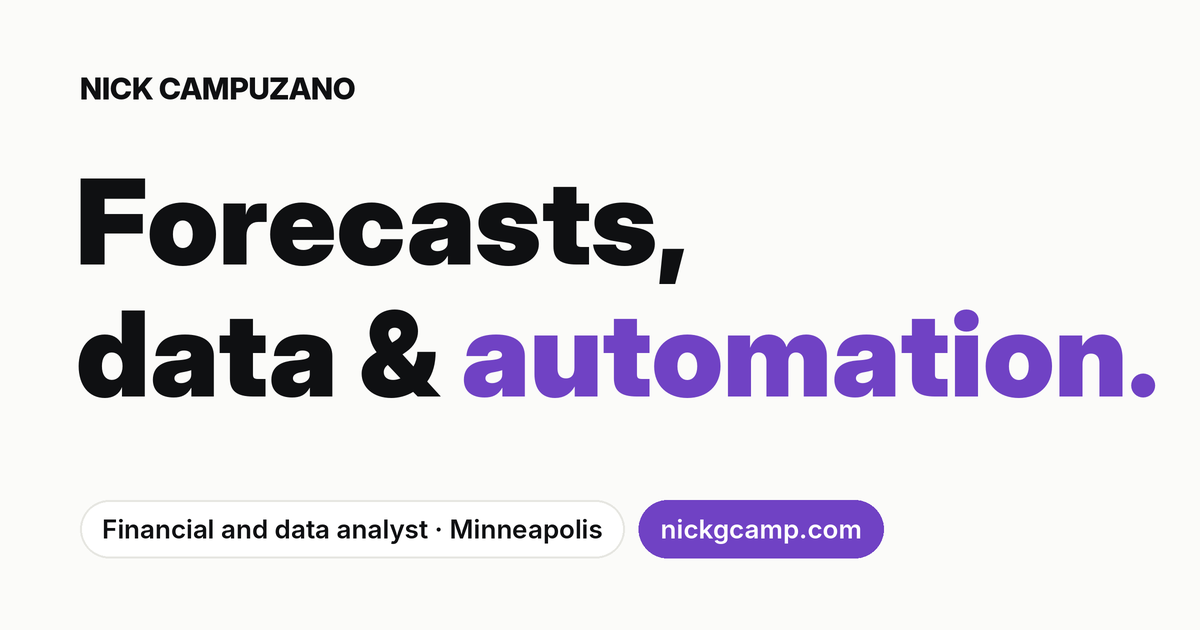
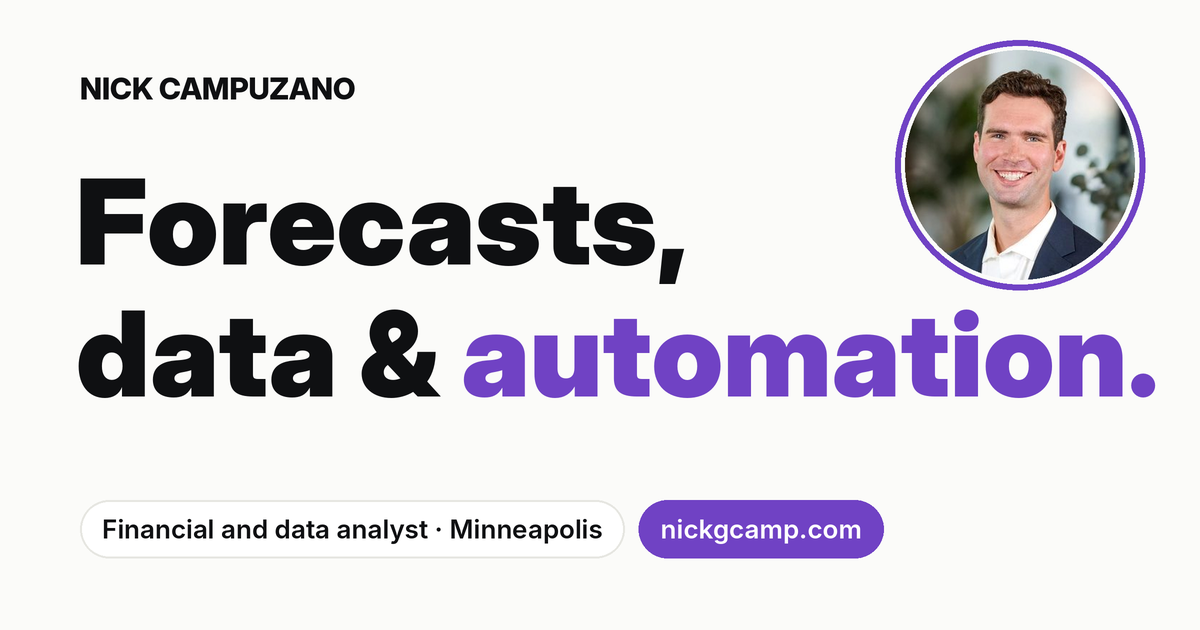
Add Nick's headshot and portrait to home, about and resume; put headshot on share image

Changed region(s): [[0.74, 0.0603, 0.9558, 0.4825]]

diff --git a/index.html b/index.html
@@ -51,7 +51,10 @@
       <h1>Forecasts,<br>data &amp; <em>automation.</em></h1>
       <div class="hero-row">
         <div class="hero-text">
+          <div class="intro">
+          <picture><source type="image/webp" srcset="assets/img/nick-headshot-160.webp 160w, assets/img/nick-headshot-320.webp 320w" sizes="88px"><img class="avatar" src="assets/img/nick-headshot-160.jpg" srcset="assets/img/nick-headshot-160.jpg 160w, assets/img/nick-headshot-320.jpg 320w" sizes="88px" width="88" height="88" alt="Nick Campuzano" fetchpriority="high"></picture>
           <p class="lead">I'm Nick, a financial and data analyst in Minneapolis. I build the forecasts and models leaders plan with, and the data and automation that keep them current.</p>
+          </div>
           <div class="actions">
             <a class="btn primary" href="https://www.linkedin.com/in/nickgcamp"><svg viewBox="0 0 24 24" width="20" height="20" aria-hidden="true" focusable="false"><path d="M20.45 20.45h-3.55v-5.57c0-1.33-.03-3.04-1.85-3.04-1.86 0-2.14 1.45-2.14 2.94v5.67H9.35V9h3.41v1.56h.05c.48-.9 1.64-1.85 3.37-1.85 3.6 0 4.27 2.37 4.27 5.46v6.28zM5.34 7.43a2.06 2.06 0 1 1 0-4.12 2.06 2.06 0 0 1 0 4.12zM7.12 20.45H3.56V9h3.56v11.45zM22.22 0H1.77C.79 0 0 .77 0 1.73v20.54C0 23.23.79 24 1.77 24h20.45c.98 0 1.78-.77 1.78-1.73V1.73C24 .77 23.2 0 22.22 0z"/></svg>Connect on LinkedIn</a>
             <button type="button" class="btn copy-email" data-copy-email><span class="ce-icons" aria-hidden="true"><svg class="ce-mail" viewBox="0 0 24 24" focusable="false"><rect x="3" y="5" width="18" height="14" rx="2.5"/><path d="M3.8 7.2l8.2 5.8 8.2-5.8"/></svg><svg class="ce-check" viewBox="0 0 24 24" focusable="false"><path d="M5 12.5l4.2 4.2L19 7"/></svg></span><span class="ce-label"><span class="ce-a">Copy email</span><span class="ce-b" aria-hidden="true">Copied!</span></span></button>
@@ -155,6 +158,8 @@
         <p>Before that I spent three years as a trading analyst in capital markets at Finance of America, building loan-level bid models and DCF and IRR models. I studied physics and computer science at Augsburg University, where I built data pipelines for space physics research and co-authored a paper in the Journal of Geophysical Research.</p>
         <p>I like problems that are part puzzle and part plumbing: find the pattern, then automate it so nobody has to do it by hand again. Outside work I build things for myself too, like a Python pipeline that prints a personal newspaper each morning and a triathlon training dashboard.</p>
       </div>
+      <div class="about-side">
+        <picture class="portrait"><source type="image/webp" srcset="assets/img/nick-portrait-480.webp 480w, assets/img/nick-portrait-800.webp 800w" sizes="(max-width: 820px) 340px, 400px"><img src="assets/img/nick-portrait-800.jpg" width="800" height="1067" loading="lazy" alt="Nick Campuzano"></picture>
       <dl class="facts">
         <div><dt>Based in</dt><dd>Minneapolis, MN</dd></div>
         <div><dt>Looking for</dt><dd>FP&amp;A, financial analyst, BI analyst</dd></div>
@@ -162,6 +167,7 @@
         <div><dt>Tools</dt><dd>Excel, SQL, Python, BI</dd></div>
         <div><dt>Education</dt><dd>B.S. Physics &amp; CS, Augsburg</dd></div>
       </dl>
+      </div>
     </div>
   </section>
 

diff --git a/assets/site.css b/assets/site.css
@@ -401,3 +401,18 @@ button.icon-link { padding: 0; }
 .flow .branch { display: grid; gap: 8px; }
 .flow-loop { margin: 0; font-size: .9rem; color: var(--muted); }
 .flow-loop span { color: var(--accent); font-weight: 700; margin-right: 4px; }
+
+/* Photos */
+.intro { display: flex; align-items: center; gap: 18px; }
+.intro picture, .resume-id picture { flex: none; }
+.avatar { display: block; width: 88px; height: 88px; border-radius: 50%; object-fit: cover; flex: none; background: var(--thumb); box-shadow: 0 0 0 3px var(--bg), 0 0 0 5px var(--accent); }
+.about-side { display: grid; gap: 22px; align-content: start; }
+.portrait img { display: block; width: 100%; height: auto; border-radius: var(--radius); background: var(--thumb); }
+.resume-id { display: flex; align-items: center; gap: 18px; min-width: 0; }
+.resume-id .avatar { width: 72px; height: 72px; }
+@media (max-width: 820px) { .portrait { max-width: 340px; } }
+@media (max-width: 520px) {
+  .intro { align-items: flex-start; gap: 14px; }
+  .avatar { width: 64px; height: 64px; }
+  .resume-id .avatar { width: 60px; height: 60px; }
+}

diff --git a/resume.html b/resume.html
@@ -49,10 +49,13 @@
   <section class="section">
     <div class="wrap resume">
       <div class="resume-head">
+        <div class="resume-id">
+        <picture><source type="image/webp" srcset="assets/img/nick-headshot-160.webp 160w, assets/img/nick-headshot-320.webp 320w" sizes="72px"><img class="avatar" src="assets/img/nick-headshot-160.jpg" srcset="assets/img/nick-headshot-160.jpg 160w, assets/img/nick-headshot-320.jpg 320w" sizes="72px" width="72" height="72" alt="Nick Campuzano" fetchpriority="high"></picture>
         <div style="display:grid;gap:8px">
           <span class="eyebrow">Resume</span>
           <h1>Nicholas Campuzano</h1>
           <p class="mono" style="color:var(--muted);font-size:.85rem;overflow-wrap:anywhere">Minneapolis, MN · nickgcamp.com · <a href="https://www.linkedin.com/in/nickgcamp">linkedin.com/in/nickgcamp</a> · <a href="https://github.com/nickgcamp">github.com/nickgcamp</a></p>
+        </div>
         </div>
         <a class="btn primary" href="assets/Nicholas_Campuzano_Resume.pdf">Download PDF</a>
       </div>
